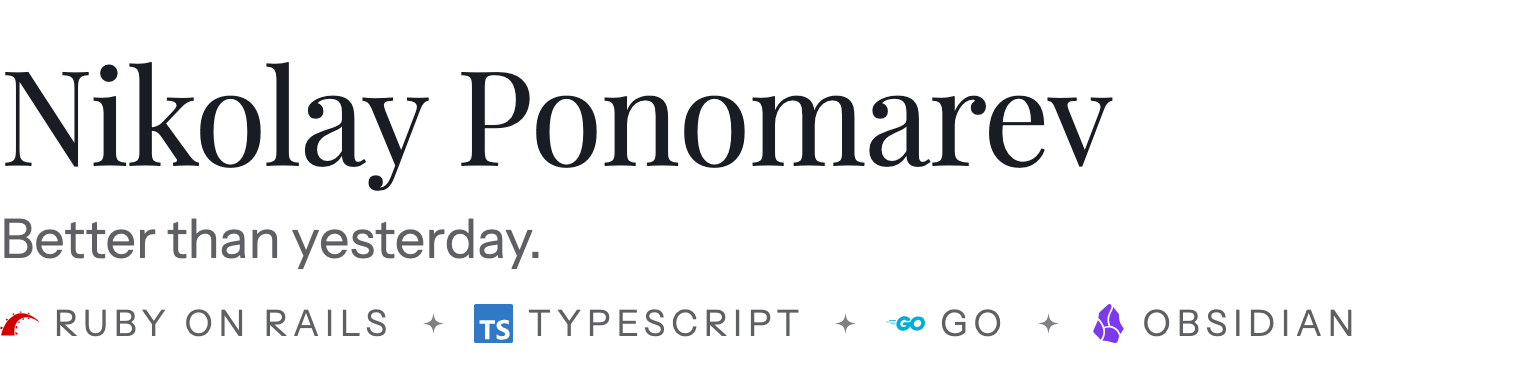
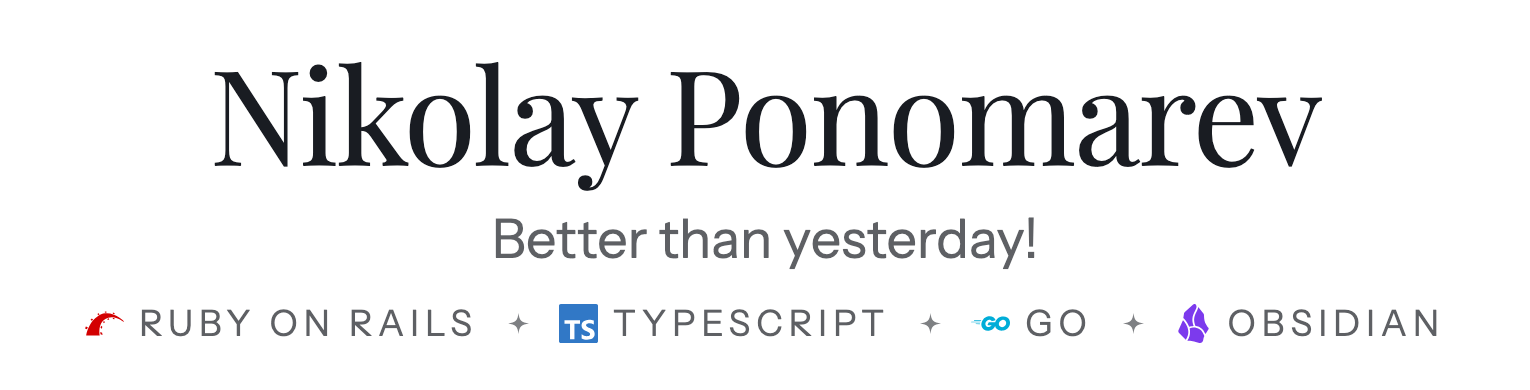
Center the header again and end the tagline with an exclamation mark
The header is centred above the sections, which stay flush left, and
the tagline now reads "Better than yesterday!".

Changed region(s): [[0.0, 0.1538, 0.8601, 0.4923], [0.0, 0.7692, 0.9523, 0.8923], [0.0, 0.5538, 0.6758, 0.6769]]

diff --git a/src/header.ts b/src/header.ts
@@ -42,7 +42,7 @@ ${fontFaces}
 	--serif: 'Playfair Display', 'Times New Roman', serif; --sans: 'Instrument Sans', 'Helvetica Neue', Arial, sans-serif; }
 * { box-sizing: border-box; margin: 0; }
 html, body { width: ${HEADER_WIDTH}px; height: ${HEADER_HEIGHT}px; background: transparent; overflow: hidden; }
-.header { height: 100%; display: grid; align-content: center; justify-items: start; gap: 30px; color: var(--ink); font-family: var(--sans); white-space: nowrap; }
+.header { height: 100%; display: grid; place-content: center; justify-items: center; gap: 30px; color: var(--ink); font-family: var(--sans); text-align: center; white-space: nowrap; }
 .name { font: 400 132px/1 var(--serif); letter-spacing: -.012em; }
 .tagline { font-size: 54px; line-height: 1.2; color: var(--sub); }
 .stack { display: flex; align-items: center; gap: 30px; font-size: 36px; letter-spacing: .16em; text-transform: uppercase; color: var(--sub); }

diff --git a/SIGNATURE.md b/SIGNATURE.md
@@ -80,12 +80,12 @@ profile README, in its brand colour; a black brand follows the reader's colour s
 
 ## Header
 
-The profile header, `header/header.json`, is set in the same type on a transparent background, flush left
-like the rest of the page: the name in Playfair Display, a tagline and up to four technologies in small
-capitals. `npm run render` without slugs renders it to `header/header.png` and `header-light.png`, 1530 × 390,
-shown at `width="510"`, the width of two cards side by side. A technology named like an icon in `src/icons.ts`
-gets that icon in front, in its brand colour.
+The profile header, `header/header.json`, is set in the same type on a transparent background, centred
+above the sections, which sit flush left: the name in Playfair Display, a tagline and up to four technologies
+in small capitals. `npm run render` without slugs renders it to `header/header.png` and `header-light.png`,
+1530 × 390, shown at `width="510"`, the width of two cards side by side. A technology named like an icon in
+`src/icons.ts` gets that icon in front, in its brand colour.
 
 ```json
-{ "name": "Nikolay Ponomarev", "tagline": "Better than yesterday.", "stack": ["Ruby on Rails", "TypeScript", "Go", "Obsidian"] }
+{ "name": "Nikolay Ponomarev", "tagline": "Better than yesterday!", "stack": ["Ruby on Rails", "TypeScript", "Go", "Obsidian"] }
 ```

diff --git a/MAINTAINING.md b/MAINTAINING.md
@@ -13,7 +13,8 @@ SIGNATURE.md describes both.
 4. Paste the card's snippet from cards/README.md into the paragraph of its platform's section in README.md,
    most important project first. Separate cards with `&nbsp;&nbsp;`; three fit in a row. A new platform gets
    its own section: a `###` heading with the platform's icon from `icons/` and its name above a `<p>` of cards,
-   `### <img src="icons/obsidian.svg" width="20" height="20" alt=""> Obsidian`. Everything sits on the left.
+   `### <img src="icons/obsidian.svg" width="20" height="20" alt=""> Obsidian`.
+   Everything but the centred header sits on the left.
 
 ## Change the header
 

diff --git a/README.md b/README.md
@@ -1,5 +1,5 @@
-<p>
-  <picture><source media="(prefers-color-scheme: light)" srcset="header/header-light.png"><img src="header/header.png" width="510" alt="Nikolay Ponomarev — Better than yesterday. Ruby on Rails, TypeScript, Go, Obsidian."></picture>
+<p align="center">
+  <picture><source media="(prefers-color-scheme: light)" srcset="header/header-light.png"><img src="header/header.png" width="510" alt="Nikolay Ponomarev — Better than yesterday! Ruby on Rails, TypeScript, Go, Obsidian."></picture>
 </p>
 
 ### <img src="icons/obsidian.svg" width="20" height="20" alt=""> Obsidian
